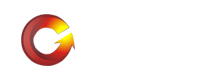
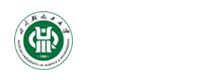
修改登录界面及首页logo

Changed region(s): [[0.0545, 0.125, 0.3545, 0.875]]

diff --git a/jeecg/src/main/webapp/plug-in/ztree/css/metroStyle.css b/jeecg/src/main/webapp/plug-in/ztree/css/metroStyle.css
@@ -12,7 +12,10 @@ website:    http://code.google.com/p/jquerytree/
 .ztree {margin:0; padding:5px; color:#333}
 .ztree li{padding:0; margin:0; list-style:none; line-height:17px; text-align:left; white-space:nowrap; outline:0}
 .ztree li ul{ margin:0; padding:0 0 0 18px}
-.ztree li ul.line{ background:url(./img/line_conn.png) 0 0 repeat-y;}
+
+.ztree li ul.line {
+    background: url(./img/line_conn.gif) 0 0 repeat-y;
+}
 
 .ztree li a {padding-right:3px; margin:0; cursor:pointer; height:21px; color:#333; background-color: transparent; text-decoration:none; vertical-align:top; display: inline-block}
 .ztree li a:hover {text-decoration:underline}
@@ -73,13 +76,14 @@ website:    http://code.google.com/p/jquerytree/
 .ztree li span.button.ico_close{margin-right:2px; margin-right:2px; background-position: -147px 0; vertical-align:top; *vertical-align:middle}
 /* .ztree li span.button.ico_docu{margin-right:2px; background-position: -147px -42px; vertical-align:top; *vertical-align:middle} */
 
-.ztree li span.button.ico_docu{  
-    margin-right:2px;  
-    background:url(./img/bootstrap.png) no-repeat scroll 0 0 transparent;  
-    vertical-align:top;  
-    background-position: -45px -117px;   
-    vertical-align:top;  
-    *vertical-align:middle}  
+.ztree li span.button.ico_docu {
+    margin-right: 2px;
+    background: url(./img/bootstrap.png) no-repeat scroll 0 0 transparent;
+    vertical-align: top;
+    background-position: -45px -117px;
+    vertical-align: top;
+    *vertical-align: middle
+}
 
 .ztree li span.button.edit {margin-left:2px; margin-right: -1px; background-position: -189px -21px; vertical-align:top; *vertical-align:middle}
 .ztree li span.button.edit:hover {

diff --git a/jeecg/src/main/webapp/webpage/login/login-ace.js b/jeecg/src/main/webapp/webpage/login/login-ace.js
@@ -143,24 +143,26 @@ function newLogin(orgId) {
 //登录提示消息显示
 function showErrorMsg(msg) {
     $("#errMsgContiner").show();
-    $("#showErrMsg").html(msg);
+    $("#showErrMsg").html("<img src='images/warning.png' />&nbsp;" + msg);
     window.setTimeout(optErrMsg, 3000);
 }
-
 //表单验证
 function validForm() {
     if ($.trim($("#userName").val()).length == 0) {
         showErrorMsg("请输入用户名");
+        $("#userName").focus();
         return false;
     }
 
     if ($.trim($("#password").val()).length == 0) {
         showErrorMsg("请输入密码");
+        $("#password").focus();
         return false;
     }
 
     if ($.trim($("#randCode").val()).length == 0) {
         showErrorMsg("请输入验证码");
+        $("#randCode").focus();
         return false;
     }
     return true;
